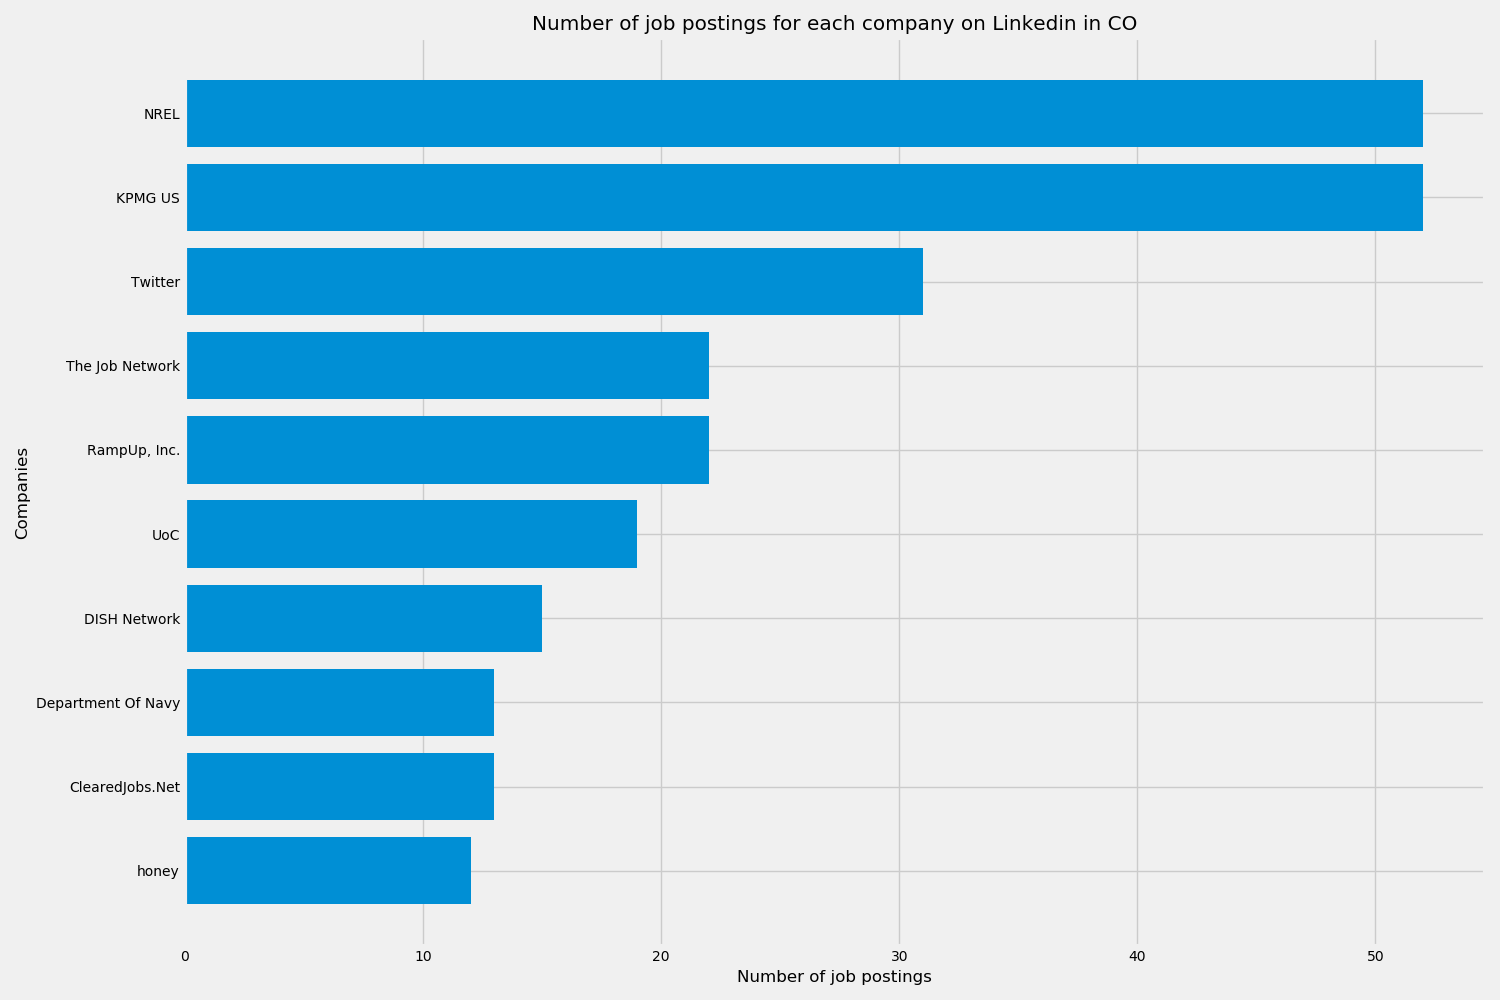
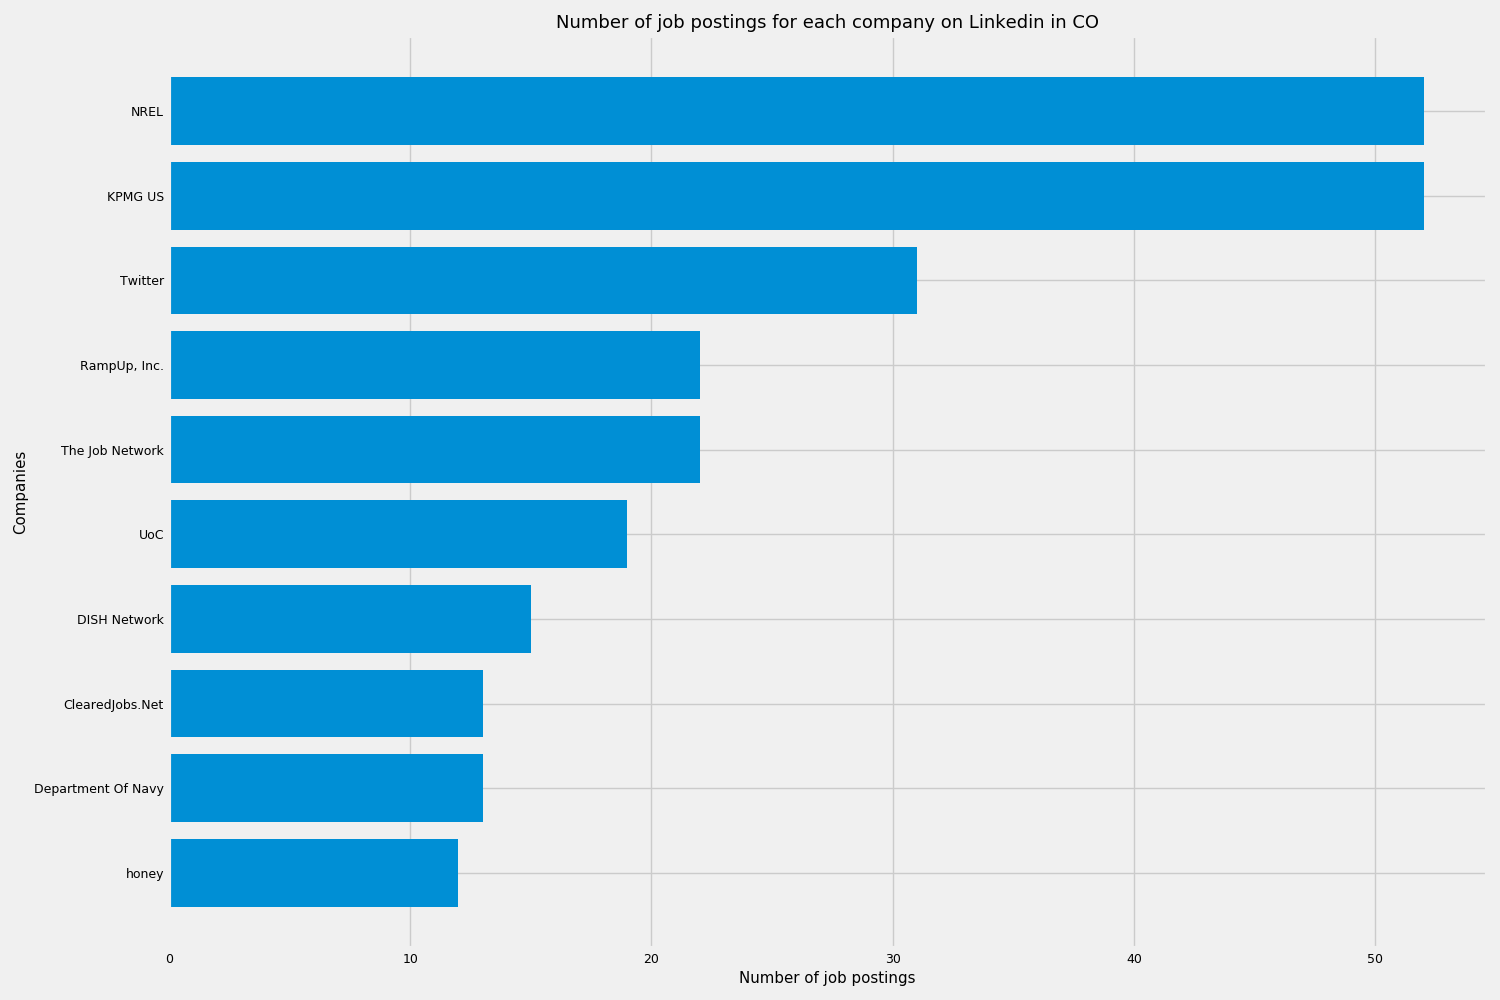
Test message

diff --git a/src/graphing_eda.py b/src/graphing_eda.py
@@ -119,7 +119,7 @@ def graph_top10_companies(state_id):
 
     jobs_state = df_all_state['Company'].value_counts().values[:10]
     jobs_state = jobs_state[::-1]
-    plt.rcParams.update({'font.size': 10})
+    plt.rcParams.update({'font.size': 9})
 
     fig, ax = plt.subplots(figsize=(15,10))
     ax.barh(companies_state, jobs_state)
